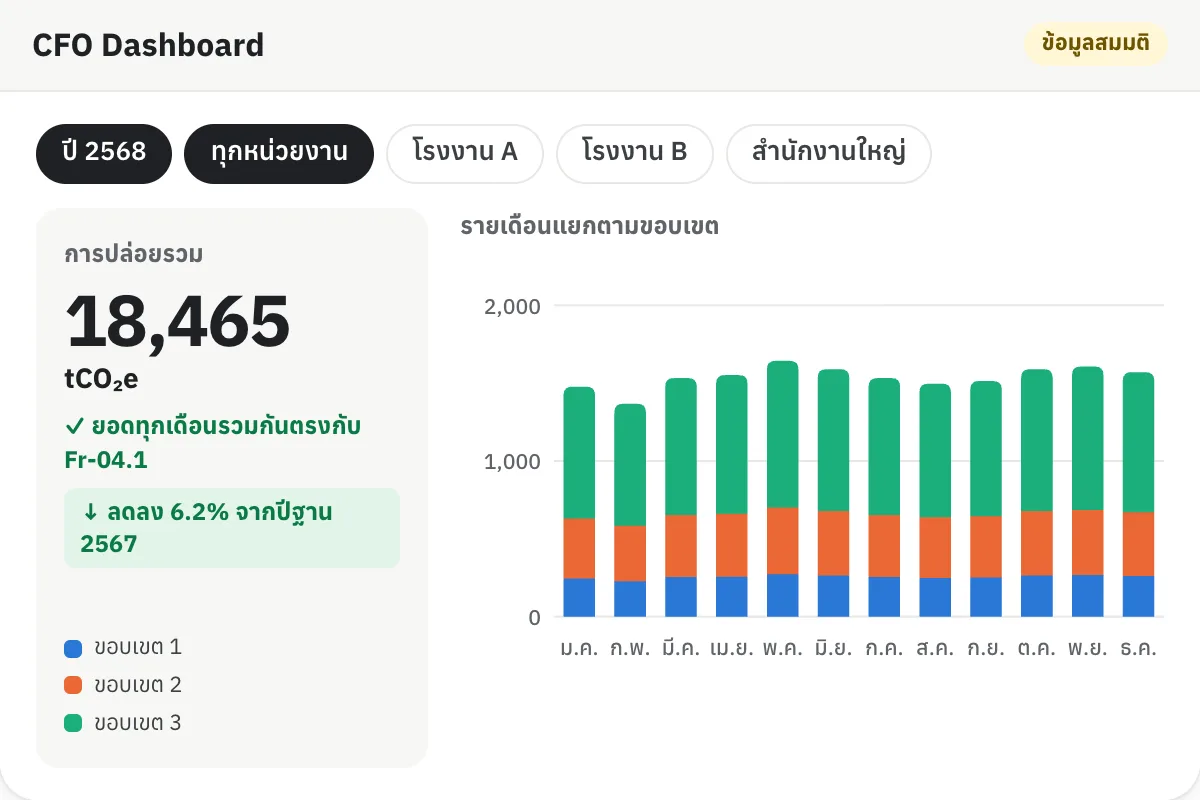
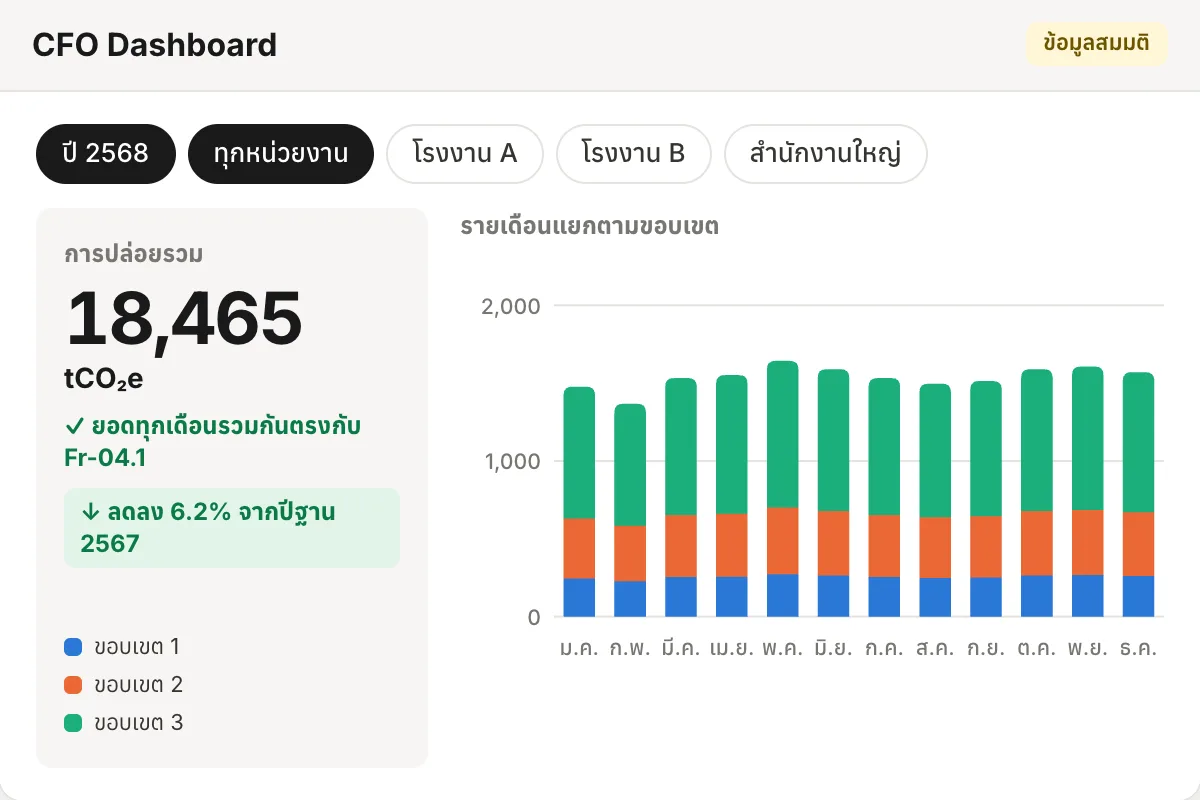
Restyle in the Notion manner; fix review findings
Notion layer (after shadcn.io/design/notion), brand colours and page
structure unchanged:
- Inter for Latin, Anuphan for Thai; headings at 600 with tighter tracking
- Warm neutrals: ink #1a1a1a, charcoal #37352f body, steel #787671,
  hairlines #e5e3df / #ede9e4 / #c8c4be, surfaces #f6f5f4 / #fafaf9
- 8px rectangular buttons, 12px flat cards with hairline borders, hover
  as a soft surface; pills only for the language tabs and screen chips
- One diffuse shadow for the walkthrough frame (workspace mockup)
- Outcome boxes become callouts with an icon; tags are small soft labels
- Card captures retaken with the new type
- The block sits at the end of style.css and can be removed as a unit

Review fixes:
- Resume footer border restored (the home-only rule was too broad)
- Skip link shows on keyboard focus
- Contrast: green buttons on accent-ink (5.4:1), active language tab
  solid ink, unplayed steps grey text instead of opacity (4.5:1),
  chapter numbers steel; axe reports no violations on index or resume
- Rail and skills links reach a 24px target height
- Lead project title now on the first screen at 1280x720 too

diff --git a/css/style.css b/css/style.css
@@ -7,35 +7,45 @@
 :root {
   color-scheme: light;
 
-  --ink: #1f2124;
-  --ink-2: #3c4043;
-  --muted: #5f6368;
-  --faint: #9aa0a6;
-  --line: #e8e8e6;
-  --line-2: #f0f0ee;
+  /* warm neutrals in the Notion manner (shadcn.io/design/notion):
+     ink for headings, charcoal for body, steel for secondary text */
+  --ink: #1a1a1a;
+  --ink-2: #37352f;
+  --muted: #787671;
+  --faint: #a4a097;
+  --line: #e5e3df;
+  --line-2: #ede9e4;
+  --line-strong: #c8c4be;
   --bg: #ffffff;
-  --bg-soft: #f7f7f5;
+  --bg-soft: #f6f5f4;
+  --bg-softer: #fafaf9;
   --bg-tint: #f1f8f3;
+  --hover: rgba(55, 53, 47, .06);
 
   --accent: #12a05c;        /* sustainability green */
   --accent-ink: #0b7a45;    /* text-safe green on white */
   --accent-soft: #e3f4ea;
-  --dark: #1f2124;
+  --dark: #1a1a1a;
 
   /* chart series — validated default categorical slots 1–3 (light) */
   --series-1: #2a78d6;
   --series-2: #eb6834;
   --series-3: #1baf7a;
 
-  --r-md: 12px;
-  --r-lg: 20px;
-  --r-xl: 28px;
+  /* Notion radii: 6 small, 8 buttons and inputs, 12 cards, 16 large media */
+  --r-sm: 6px;
+  --r-md: 8px;
+  --r-lg: 12px;
+  --r-xl: 16px;
   --r-full: 9999px;
 
-  --shadow-1: 0 1px 2px rgba(32,33,36,.06), 0 4px 16px rgba(32,33,36,.06);
-  --shadow-2: 0 2px 6px rgba(32,33,36,.08), 0 24px 56px rgba(32,33,36,.14);
+  /* flat, border-based surfaces; one diffuse shadow for workspace mockups */
+  --shadow-1: 0 1px 2px rgba(15, 15, 15, .04);
+  --shadow-2: 0 2px 6px rgba(15, 15, 15, .06), 0 12px 28px rgba(15, 15, 15, .08);
+  --shadow-mock: 0 24px 48px -8px rgba(15, 15, 15, .2);
 
-  --font: "Anuphan", "Noto Sans Thai", -apple-system, system-ui, "Segoe UI", sans-serif;
+  /* Inter for Latin (Notion Sans is Inter-based), Anuphan for Thai */
+  --font: "Inter", "Anuphan", "Noto Sans Thai", -apple-system, system-ui, "Segoe UI", sans-serif;
   --ease: cubic-bezier(.22, .8, .22, 1);
   --max: 1160px;
 
@@ -592,7 +602,9 @@ html.i18n-wait body { visibility: hidden; }
 .start p { color: #b9cfc1; font-size: 18px; margin: 18px auto 0; max-width: 560px; }
 .start .btn-outline { background: transparent; color: #fff; border-color: rgba(255,255,255,.35); }
 .start .btn-outline:hover { border-color: #fff; background: rgba(255,255,255,.06); }
-.start + .footer, main + .footer { border-top: 0; }
+/* the home page ends on the dark contact chapter, so its footer needs no rule;
+   the resume page keeps its footer border */
+body[data-page="home"] .footer { border-top: 0; }
 .start .intro-actions { margin-top: 36px; }
 
 .footer { border-top: 1px solid var(--line); padding: 28px 0 40px; color: var(--muted); font-size: 13px; }
@@ -735,3 +747,162 @@ html.i18n-wait body { visibility: hidden; }
 .wt-beat { position: absolute; inset: 0; width: 100%; border: 0; padding: 0; margin: 0; background: transparent; border-radius: inherit; cursor: pointer; }
 .wt-beat:focus-visible { outline: 2px solid var(--accent); outline-offset: 2px; }
 @media (prefers-reduced-motion: reduce) { .project-steps li.wt-beat-item { transition: none; } }
+
+/* ==========================================================================
+   Notion layer (after shadcn.io/design/notion)
+   Keeps the brand colours and the page structure; changes the feel:
+   Inter + Anuphan at weight 600 for headings, warm greys, 8px rectangular
+   buttons, 12px flat cards with hairline borders, one diffuse shadow for the
+   workspace mockups, pills only for tabs and tags, callouts for outcomes.
+   Remove this block to go back to the previous look.
+   ========================================================================== */
+
+/* ---------- type ---------- */
+body { color: var(--ink-2); line-height: 1.6; font-feature-settings: "cv11", "ss01"; }
+h1, h2, h3, h4 { font-weight: 600; color: var(--ink); letter-spacing: -0.01em; }
+.intro h1 { font-weight: 600; letter-spacing: -0.035em; }
+.showcase-title, .section h2 { font-size: clamp(30px, 3.6vw, 40px); letter-spacing: -0.02em; font-weight: 600; }
+.project-story-head h3 { font-size: clamp(28px, 3.2vw, 38px); letter-spacing: -0.02em; }
+.project-card h3 { letter-spacing: -0.015em; }
+.project-card-featured h3 { font-size: clamp(28px, 3.8vw, 46px); letter-spacing: -0.025em; }
+.start h2 { font-weight: 600; letter-spacing: -0.03em; }
+.intro-stats dd { font-weight: 600; letter-spacing: -0.03em; }
+.project-steps h4 { font-size: 17px; font-weight: 600; }
+.project-steps p, .project-story-head p { color: var(--ink-2); }
+
+/* micro labels: 11–12px, 600, tracked (Notion "micro-uppercase") */
+.eyebrow, .kicker { font-size: 11px; letter-spacing: .08em; font-weight: 600; color: var(--muted); }
+.story-num { font-size: 11px; font-weight: 600; letter-spacing: .08em; color: var(--muted); }   /* 4.5:1 */
+
+/* ---------- buttons: 8px rectangles, 14–15px / 500 ---------- */
+.btn { height: 40px; padding: 0 16px; border-radius: var(--r-md); font-weight: 500; font-size: 15px; border-width: 1px; gap: 8px; }
+.btn:hover { transform: none; }
+.btn-dark { background: var(--dark); }
+.btn-dark:hover { background: #000; }
+.btn-accent { background: var(--accent-ink); }           /* white text 5.4:1 */
+.btn-accent:hover { background: #096a3c; }
+.btn-outline { background: #fff; color: var(--ink); border-color: var(--line-strong); }
+.btn-outline:hover { background: var(--bg-softer); border-color: var(--line-strong); }
+.btn-lg { height: 48px; padding: 0 20px; font-size: 15px; min-width: 220px; }
+.btn-icon { width: 40px; height: 40px; border-radius: var(--r-md); }
+
+/* ---------- nav: flat bar with a hairline, rectangle items ---------- */
+.nav { height: 64px; border-radius: var(--r-lg); padding: 0 10px 0 22px; background: rgba(255,255,255,.86); border-color: var(--line); box-shadow: var(--shadow-1); }
+.brand { font-weight: 600; font-size: 15px; letter-spacing: .18em; }
+.nav-links a { height: 36px; padding: 0 12px; border-radius: var(--r-sm); font-size: 15px; color: var(--muted); }
+.nav-links a:hover { background: var(--hover); color: var(--ink); }
+.nav-links a[aria-current="true"], .nav-links a[aria-current="page"] { background: var(--hover); color: var(--ink); }
+.nav-cta { height: 40px; padding: 0 14px; }
+/* language: pill tabs, the active one solid ink (Notion "pill tab") */
+.lang { padding: 2px; gap: 2px; background: #fff; border-color: var(--line); }
+.lang button { height: 30px; min-width: 40px; padding: 0 10px; color: var(--muted); font-weight: 600; letter-spacing: .02em; }
+.lang button:hover { color: var(--ink); }
+.lang button[aria-pressed="true"] { background: var(--ink); color: #fff; box-shadow: none; }
+@media (max-width: 860px) {
+  .nav { height: 56px; padding: 0 6px 0 16px; }
+  .nav-links { border-radius: var(--r-lg); top: 64px; }
+  .nav-links a { padding: 12px 14px; border-radius: var(--r-sm); }
+  .nav-links .nav-links-cta a { border-radius: var(--r-md); }
+}
+
+/* skip link: shows when focused from the keyboard */
+a.visually-hidden:focus { position: fixed !important; z-index: 100; left: 16px; top: 16px; width: auto; height: auto; clip: auto; overflow: visible; padding: 10px 14px; border-radius: var(--r-md); background: var(--ink); color: #fff; font-weight: 500; }
+
+/* ---------- tags and labels: small, soft, 4–6px ---------- */
+.media-label { border-radius: var(--r-sm); padding: 3px 8px; font-size: 12px; font-weight: 500; color: var(--ink-2); background: rgba(255,255,255,.92); border: 1px solid var(--line); bottom: 10px; left: 10px; }
+.tag-dev { border: 0; border-radius: var(--r-sm); padding: 2px 8px; background: #ffe8d4; color: #793400; font-weight: 500; vertical-align: 2px; }
+.project-story--dark .tag-dev { background: rgba(255, 180, 138, .16); color: #ffcfae; }
+.chip { border-radius: var(--r-sm); }
+.project-category { font-size: 13px; font-weight: 600; }
+
+/* ---------- hero ---------- */
+.intro { padding-top: clamp(36px, 4.5vw, 64px); }
+@media (min-width: 701px) and (max-height: 960px) { .intro { padding-top: 34px; } }
+@media (max-width: 700px) { .intro { padding-top: 24px; } }
+.intro-figure { border-radius: var(--r-xl); box-shadow: none; border-color: var(--line); }
+@media (prefers-reduced-motion: no-preference) {
+  .intro-figure { animation-name: open-up-notion; }
+}
+@keyframes open-up-notion { from { clip-path: inset(100% 0 0 0 round var(--r-xl)); } to { clip-path: inset(0 0 0 0 round var(--r-xl)); } }
+.intro-stats dt { color: var(--muted); }
+
+/* ---------- cards: flat, hairline, 12px; hover = soft surface ---------- */
+.project-card { border-radius: var(--r-lg); border-color: var(--line); transition: background-color .15s ease, border-color .15s ease; }
+.project-card:hover { border-color: var(--line-strong); box-shadow: none; background: var(--bg-softer); }
+.project-card-featured { border-color: #d7e7dc; }
+.project-card-featured:hover { background: #ecf6ef; }
+.project-card-media img { transition: transform .4s var(--ease); }
+.project-card:hover .project-card-media img { transform: scale(1.015); }
+.project-card-media { overflow: hidden; }
+.project-link { font-size: 14px; font-weight: 500; }
+.skill, .cred { border-radius: var(--r-lg); border-color: var(--line); box-shadow: none; transition: background-color .15s ease, border-color .15s ease; }
+.skill:hover { transform: none; border-color: var(--line-strong); background: var(--bg-softer); }
+.skill h3, .cred h3 { font-size: 17px; font-weight: 600; }
+.section-soft { background: var(--bg-softer); }
+.link-arrow { font-weight: 500; padding: 4px 0; }   /* ≥ 24px target */
+
+/* ---------- story: chapter label, scene, steps as a Notion list ---------- */
+.story-scene { border-radius: var(--r-lg); }
+.story-num::after { opacity: .6; }
+.project-steps li { border-bottom-color: var(--line-2); }
+.project-steps li::marker { color: var(--faint); font-weight: 500; font-variant-numeric: tabular-nums; }
+.project-steps li.wt-beat-item { border-radius: var(--r-sm); transition: background-color .15s ease; }
+/* steps not played yet: grey text instead of opacity (keeps 4.5:1) */
+.wt-on .project-steps li.wt-beat-item:not(.is-done):not(.is-current) { opacity: 1; }
+.wt-on .project-steps li.wt-beat-item:not(.is-done):not(.is-current) h4,
+.wt-on .project-steps li.wt-beat-item:not(.is-done):not(.is-current) p { color: var(--muted); }
+.project-steps li.wt-beat-item:hover { background: var(--hover); }
+.project-steps li.is-current, .project-steps li.is-current:hover { background: var(--accent-soft); }
+.project-steps li.is-current::marker, .project-steps li.is-done::marker { color: var(--accent-ink); }
+.project-story--dark .wt-on .project-steps li.wt-beat-item:not(.is-done):not(.is-current) h4,
+.project-story--dark .wt-on .project-steps li.wt-beat-item:not(.is-done):not(.is-current) p,
+.project-story--dark.wt-on .project-steps li.wt-beat-item:not(.is-done):not(.is-current) h4,
+.project-story--dark.wt-on .project-steps li.wt-beat-item:not(.is-done):not(.is-current) p { color: #8fb39d; }
+.project-story--dark .project-steps li::marker { color: #8fb39d; }
+.project-story--dark .project-steps li.is-current::marker, .project-story--dark .project-steps li.is-done::marker { color: #6ee7a8; }
+.project-story--dark .project-steps li { border-bottom-color: rgba(255,255,255,.1); }
+
+/* outcome as a Notion callout: soft surface, 8px, icon on the left */
+.project-result {
+  display: grid; grid-template-columns: 24px 1fr; column-gap: 12px; align-items: start;
+  margin-top: 28px; padding: 16px 18px; border-left: 0; border-radius: var(--r-md); background: var(--bg-soft);
+}
+.project-result::before { content: "💡"; grid-row: 1 / 3; font-size: 18px; line-height: 1.4; }
+.project-result strong { grid-column: 2; color: var(--ink); font-size: 14px; font-weight: 600; }
+.project-result p { grid-column: 2; color: var(--ink-2); }
+.project-story--dark .project-result { background: rgba(255,255,255,.06); }
+.project-story--dark .project-result::before { content: "🚧"; }
+.project-story--dark .project-result strong { color: #fff; }
+
+/* ---------- walkthrough frame = the workspace mockup ---------- */
+.wt-frame { border-radius: var(--r-lg); border-color: var(--line); box-shadow: var(--shadow-mock); }
+.project-story--dark .wt-frame { border-color: rgba(255,255,255,.14); box-shadow: 0 24px 48px -8px rgba(0,0,0,.45); }
+.wt-bar { height: 36px; background: var(--bg-softer); border-bottom-color: var(--line); }
+.wt-dots i { background: var(--line-strong); opacity: .7; }
+.wt-url { border-radius: var(--r-sm); border-color: var(--line); background: #fff; }
+.wt-replay { border-radius: var(--r-sm); }
+.wt-replay:hover { background: var(--hover); }
+.wt-chip { border-radius: var(--r-sm); font-weight: 500; }
+.wt-hl { border-radius: var(--r-sm); }
+/* screens inside the canvas: 8px controls, warm hairlines */
+.cm-input, .cm-ef, .cm-chk, .ws-file, .ws-logrow, .ws-panel, .ws-kpi, .fe-form, .fe-formula, .sr-act, .sr-col, .cm-query, .cm-ai { border-radius: var(--r-md); }
+.cm-btn, .ws-btn { border-radius: var(--r-md); font-weight: 500; }
+.cm-chip { border-radius: var(--r-md); }
+.ws-chip { border-radius: var(--r-full); font-weight: 500; }
+.ws-tag { border-radius: var(--r-sm); font-weight: 600; }
+.ws-tab.on { box-shadow: inset 0 -2px 0 var(--ink); color: var(--ink); }
+
+/* ---------- rail ---------- */
+.rail-pct, .rail-t { border-radius: var(--r-sm); border-color: var(--line); box-shadow: none; }
+.rail a { height: 24px; }                                  /* 24px target */
+.rail a i { background: var(--line-strong); }
+
+/* ---------- closing chapter + footer ---------- */
+.start h2 { color: #fff; }
+.start .btn-lg { min-width: 0; }
+.footer { color: var(--muted); font-size: 13px; }
+
+/* reduced motion wins over the hover/step transitions above */
+@media (prefers-reduced-motion: reduce) {
+  .project-steps li.wt-beat-item, .project-card, .project-card-media img, .skill, .cred { transition: none; }
+}

diff --git a/resume.html b/resume.html
@@ -17,7 +17,7 @@
   </script>
   <link rel="preconnect" href="https://fonts.googleapis.com" />
   <link rel="preconnect" href="https://fonts.gstatic.com" crossorigin />
-  <link href="https://fonts.googleapis.com/css2?family=Anuphan:wght@400;500;600;700&display=swap" rel="stylesheet" />
+  <link href="https://fonts.googleapis.com/css2?family=Inter:wght@400;500;600;700&family=Anuphan:wght@400;500;600;700&display=swap" rel="stylesheet" />
   <link rel="stylesheet" href="css/style.css" />
 </head>
 <body data-page="resume">

diff --git a/index.html b/index.html
@@ -27,7 +27,7 @@
   </script>
   <link rel="preconnect" href="https://fonts.googleapis.com" />
   <link rel="preconnect" href="https://fonts.gstatic.com" crossorigin />
-  <link href="https://fonts.googleapis.com/css2?family=Anuphan:wght@400;500;600;700&display=swap" rel="stylesheet" />
+  <link href="https://fonts.googleapis.com/css2?family=Inter:wght@400;500;600;700&family=Anuphan:wght@400;500;600;700&display=swap" rel="stylesheet" />
   <link rel="stylesheet" href="css/style.css" />
 </head>
 <body data-page="home">
